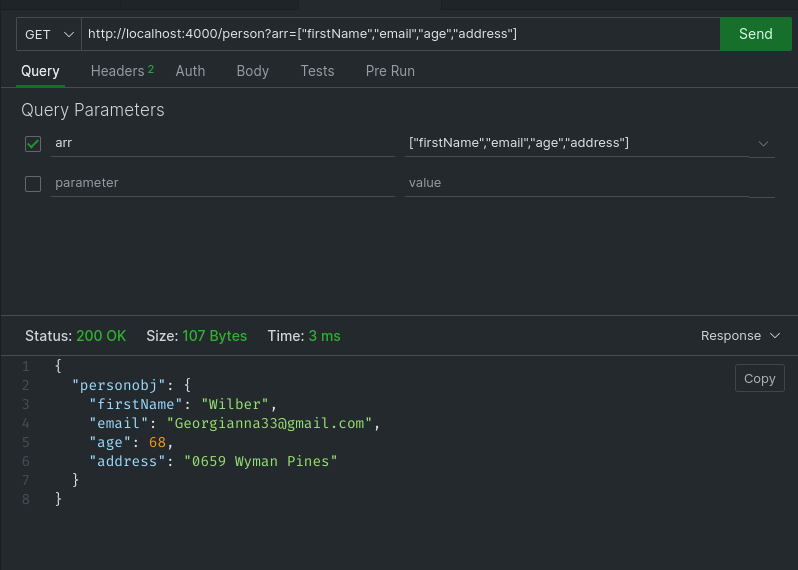
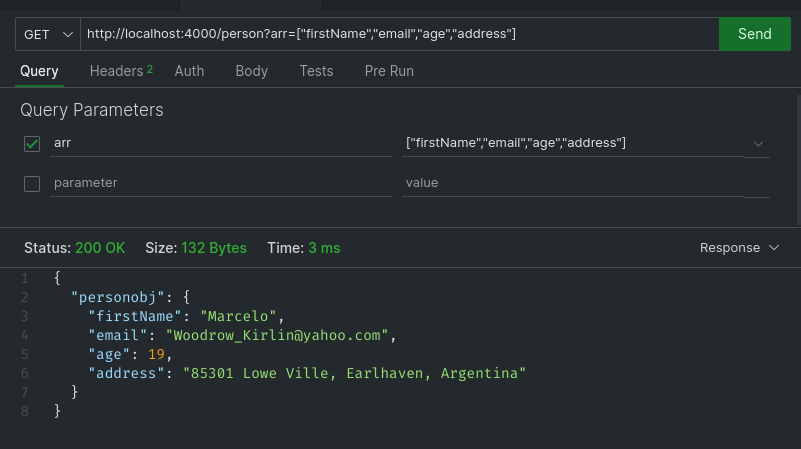
finishing touches

diff --git a/1.Assignment_1/src/appLogics/newPersonObj.js b/1.Assignment_1/src/appLogics/newPersonObj.js
@@ -1,5 +1,4 @@
 const { faker } = require("@faker-js/faker");
-const random = require("./randomValue");
 
 const newPerson = (arr) => {
   const personObj = {};
@@ -23,9 +22,11 @@ const newPerson = (arr) => {
       } else if (prop === "avatar") {
         personObj[prop] = faker.image.avatar();
       } else if (prop === "age") {
-        personObj[prop] = random(13, 70);
+        personObj[prop] = faker.datatype.number({ min: 13, max: 70 });
       } else if (prop === "address") {
-        personObj[prop] = faker.address.streetAddress();
+        personObj[
+          prop
+        ] = `${faker.address.streetAddress()}, ${faker.address.city()}, ${faker.address.country()}`;
       }
     }
   });

diff --git a/1.Assignment_1/src/readme.md b/1.Assignment_1/src/readme.md
@@ -29,7 +29,7 @@ We have a function that can generate a fake person profile including first name,
 - ### Output [Person Object](https://github.com/Mr-Anik1/BackendAssignment/blob/master/1.Assignment_1/src/appLogics/newPersonObj.js)
 
 **Output-1**
-![person_object](./testImage/2.1.peson.png)
+![person_object](./testImage/2.1.person.png)
 
 **Output-2**
 ![person_object](./testImage/2.2.person.png)
